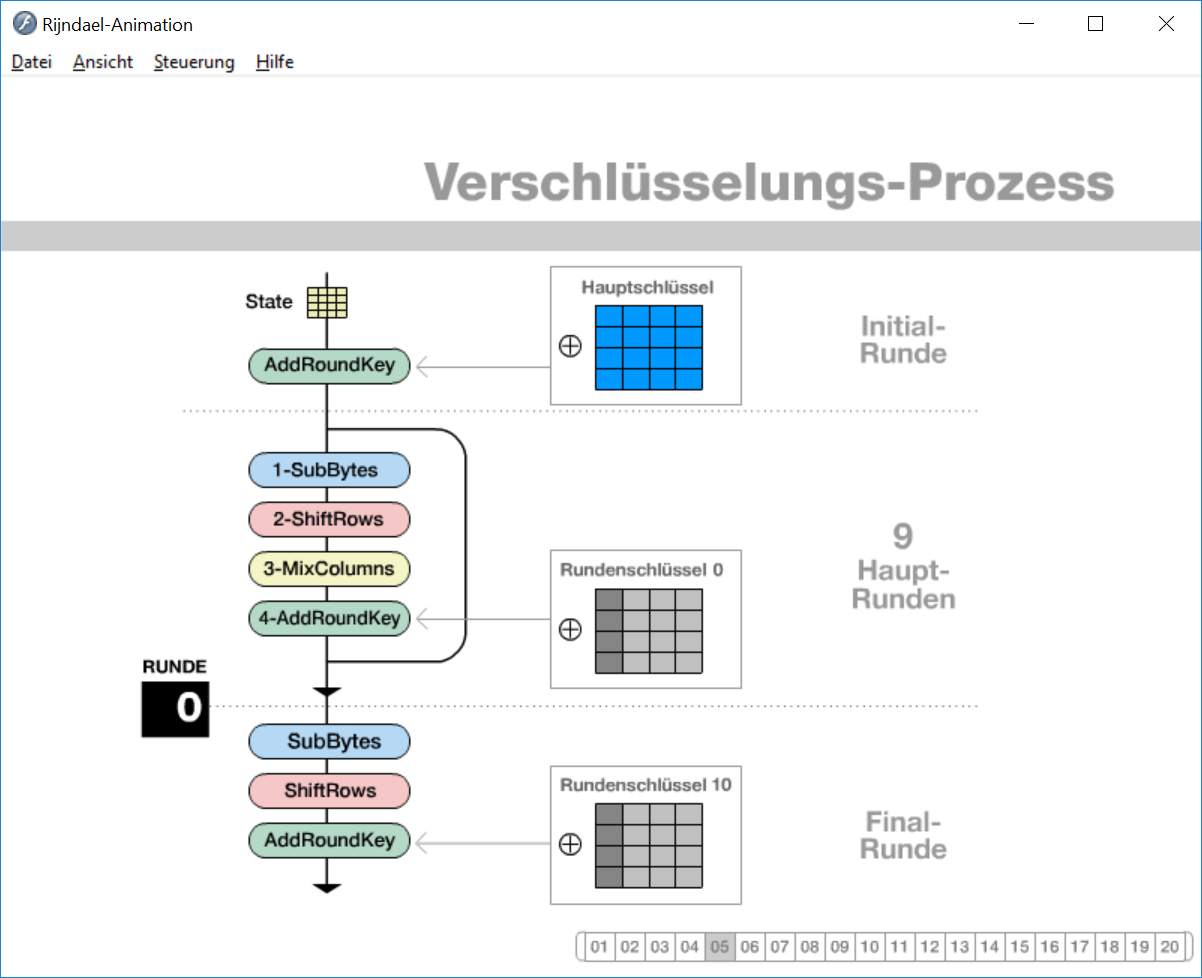
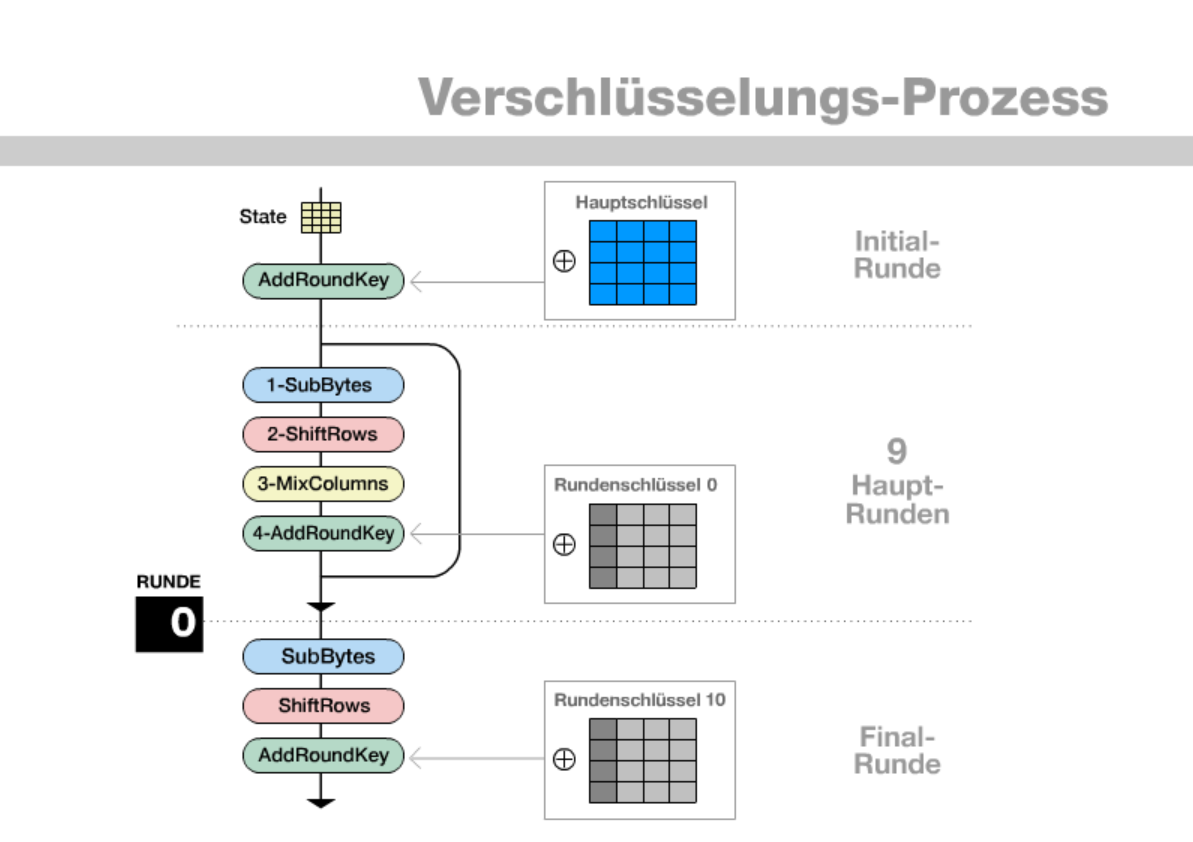
Fixed two typos. Edited intro images. Added first version of a button to change the language while the plugin is running(explanations displayed when the button is pressed do not get replaced yet)
git-svn-id: https://svn.cryptool.org/CrypTool2/trunk@6824 9b0d660e-8ab2-dd11-ad6d-000c29d71a56

diff --git a/CrypPluginsExperimental/AESVisualisation/AESPresentation.xaml b/CrypPluginsExperimental/AESVisualisation/AESPresentation.xaml
@@ -149,6 +149,11 @@
             <Button x:Name="round8Button" Content="Round8" Grid.Row="4"  HorizontalAlignment="Stretch" VerticalAlignment="Stretch" Grid.Column="8" Click="round8Button_Click" />
             <Button x:Name="round9Button" Content="Round9" Grid.Row="4"  HorizontalAlignment="Stretch" VerticalAlignment="Stretch" Grid.Column="9" Click="round9Button_Click" />
             <Button x:Name="round10Button" Content="Round10" Grid.Row="4"  HorizontalAlignment="Stretch" VerticalAlignment="Stretch" Grid.Column="10" Click="round10Button_Click" />
+            <Button Name="languageButton" Grid.Row="0" Grid.Column="10" HorizontalAlignment="Stretch" VerticalAlignment="Stretch" Click="languageButton_Click">
+                <Viewbox Stretch="Uniform" Margin="2,2,2,2" >
+                    <TextBlock Name="languageTextBlock" Text="English"/>
+                </Viewbox>
+            </Button>
             <Button x:Name="playButton" Grid.Row="3"  HorizontalAlignment="Stretch" VerticalAlignment="Stretch" Grid.Column="0" Click="playButton_Click">
                 <Viewbox Stretch="Uniform" Margin="2,2,2,2" >
                     <TextBlock Name="playTextBlock" Text="Next"/>

diff --git a/CrypPluginsExperimental/AESVisualisation/AESPresentation.xaml.cs b/CrypPluginsExperimental/AESVisualisation/AESPresentation.xaml.cs
@@ -807,6 +807,25 @@ namespace AESVisualisation
             toStart();
         }
 
+        private void languageButton_Click(object sender, RoutedEventArgs e)
+        {
+            bool auto = false;
+            auto = autostep;
+            autostep = false;
+            switch (language)
+            {
+                case 0:
+                    language = 1;
+                    break;
+                case 1:
+                    language = 0;
+                    break;
+                default:
+                    break;
+            }
+            setLanguage();
+            autostep = auto;
+        }
         #endregion Buttons
 
         #region Methods
@@ -5237,8 +5256,8 @@ namespace AESVisualisation
                             expansionEncryptionTextBlock.Text = "Key Expansion";
                             break;
                         case 1:
-                            keyExpansionTextBlock.Text = "Generierung Überspringen";
-                            expansionEncryptionTextBlock.Text = "Schlüsselergenerierung";
+                            keyExpansionTextBlock.Text = "Generierung überspringen";
+                            expansionEncryptionTextBlock.Text = "Schlüsselgenerierung";
                             break;
                     }
                     showButton();
@@ -6155,6 +6174,7 @@ namespace AESVisualisation
                         playTextBlock.Text = "Next";
                         nextStepTextBlock.Text = "Skip Round";
                         prevStepTextBlock.Text = "Prev. Round";
+                        languageTextBlock.Text = "Deutsch";
 
                     }, null);
                     break;
@@ -6176,6 +6196,7 @@ namespace AESVisualisation
                         keyExpansionTextBlock.Text = "Schlüsselerweiterung";
                         nextStepTextBlock.Text = "Runde überspringen";
                         prevStepTextBlock.Text = "Vorherige Runde";
+                        languageTextBlock.Text = "English";
                     }, null);
                     break;
             }   
@@ -6293,8 +6314,8 @@ namespace AESVisualisation
 
             }
         }
+
         #endregion
 
-       
     }
 }
